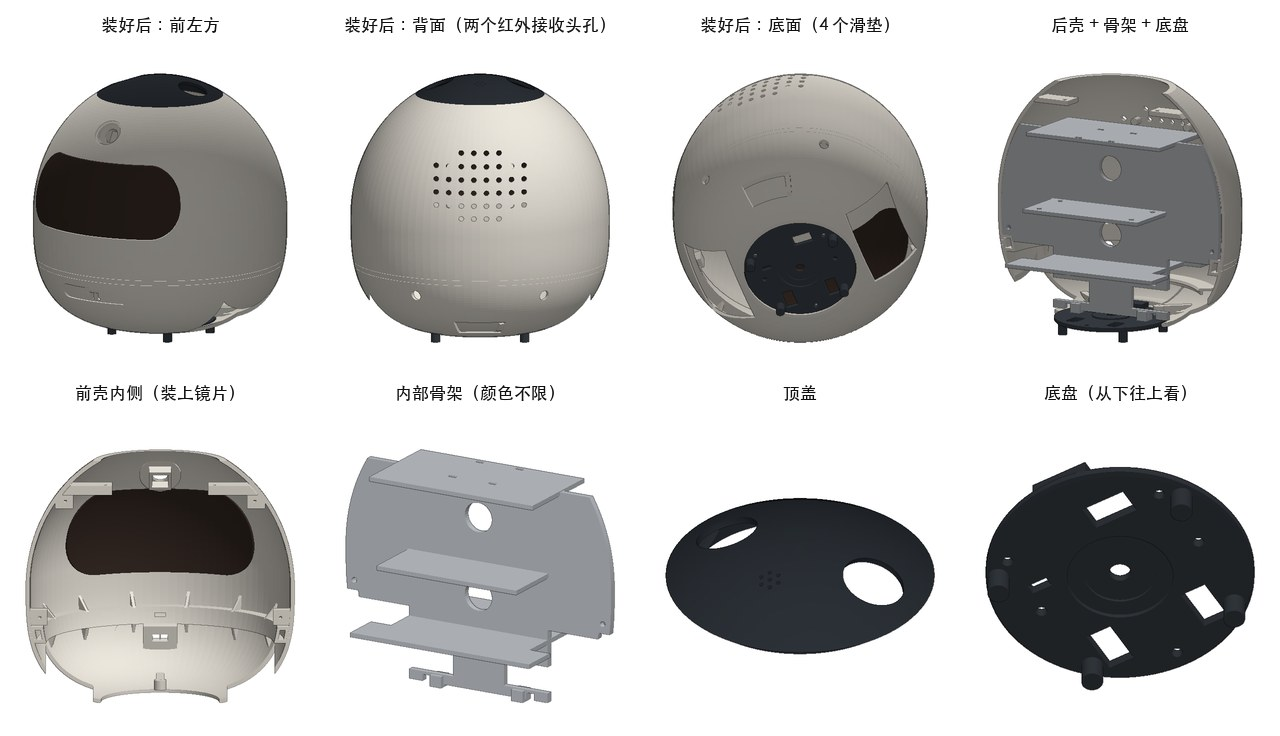
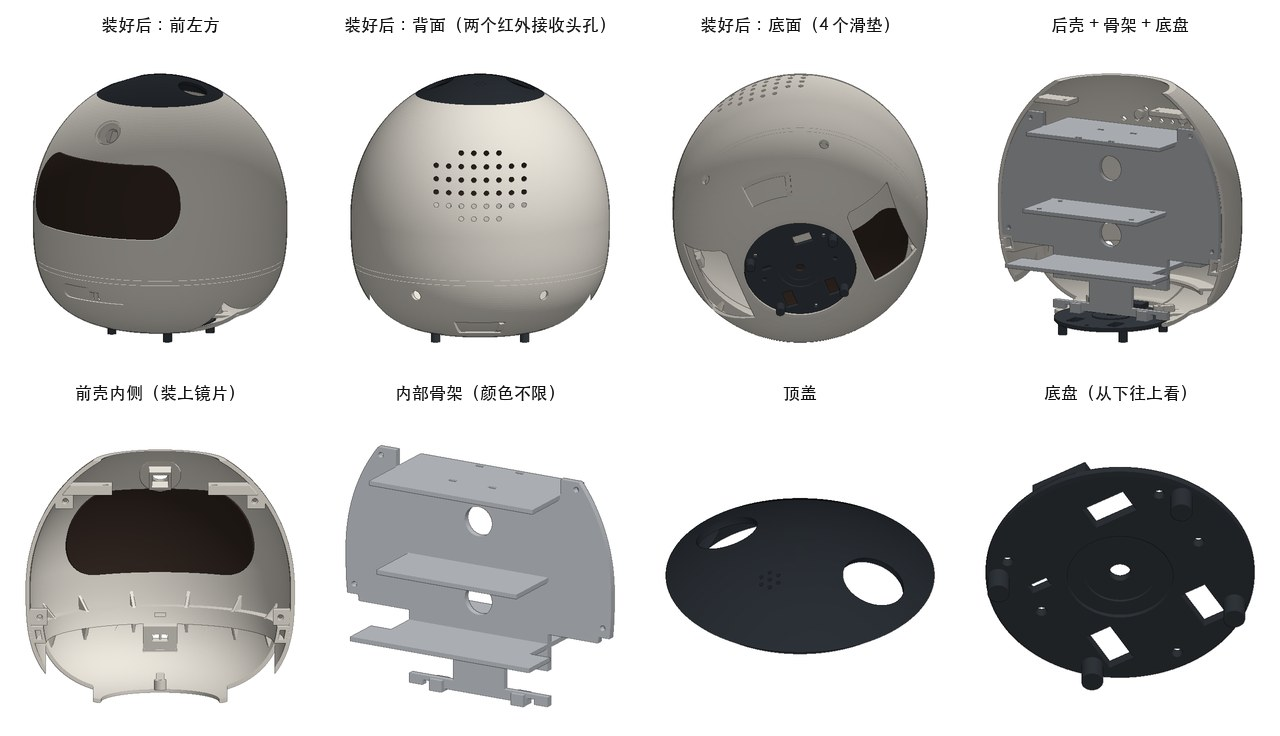
网站按 v1.9.5 核对更新：组装页零件表 05/14 尺寸和说明、屏幕位置（低 9.5 mm）、螺丝拧进铜螺母、USB 滑门装法说明，采购表加铜螺母和 AB 胶；重画表情窗、整机零件预览图，USB 滑门图去掉旧的第④格，图片缓存参数更新

diff --git a/build.html b/build.html
@@ -101,11 +101,11 @@ pre code { background: none; padding: 0; color: inherit; }
     <tr><th>文件</th><th>是什么</th><th class="n">外形尺寸（mm）</th><th>材料与摆放</th></tr>
     <tr><td><a href="cad/stl/shell_front.stl">shell_front.stl</a></td><td>前壳：腰部光带槽（离地 41.7–44.7，内侧一条封闭槽道把上下两半壳连起来）、表情窗、摄像头座（方孔 8.6 × 8.6 卡住镜头座、前端挡边定深度）和盖片沉台（Ø16.6 × 1.3，沿壳面法线，底下一圈 1 mm 托台）、ToF 窗口（凸台 + 光束通孔 + 嵌曲面长条的 1.5 mm 浅坑）、轮舱缺口、合缝螺丝耳（4 个，粘 M2 铜螺母）、底部正前方一根螺丝柱（粘 M2 铜螺母）、顶口合缝两边两块搁板（厚 5，从上面粘 M2 铜螺母，伸过合缝面 3.5）</td><td class="n">143 × 75 × 130</td><td>树脂或 PLA。合缝面朝下平放，要加支撑</td></tr>
     <tr><td><a href="cad/stl/lens.stl">lens.stl</a></td><td>表情窗的弧面镜片：和窗口同一个四角大圆弧形状，四周比窗口小 0.3；外表面比壳面高 0.5、外沿 R0.5 圆边；背面一圈翻边（比窗口大 3 mm、厚 1.2）粘在前壳内壁上</td><td class="n">100 × 29 × 47</td><td>透明树脂光固化，内外打磨抛光，内面喷透明茶色漆</td></tr>
-    <tr><td><a href="cad/stl/screen_shroud.stl">screen_shroud.stl</a></td><td>表情屏支架 + 遮光罩：后面是放 2.4 寸屏玻璃的框（前面一圈 1 mm 的唇，开口是显示区），中间是黑色漏斗，前口贴在前壳内壁上、压住镜片翻边</td><td class="n">105 × 32 × 55</td><td>黑色不透光的料（黑色树脂或黑色 PETG）。前口朝下放，要支撑</td></tr>
+    <tr><td><a href="cad/stl/screen_shroud.stl">screen_shroud.stl</a></td><td>表情屏支架 + 遮光罩：后面是放 2.4 寸屏玻璃的框（前面一圈 1 mm 的唇，开口是显示区），中间是黑色漏斗，前口贴在前壳内壁上、压住镜片翻边；v1.9.4 起屏幕框背面顶上那根横杆 2.2 mm、摄像头缺口四周补料 2 mm</td><td class="n">105 × 40 × 59</td><td>黑色不透光的料（黑色树脂或黑色 PETG）。前口朝下放，要支撑</td></tr>
     <tr><td><a href="cad/stl/shell_back.stl">shell_back.stl</a></td><td>后壳：腰部光带槽（离地 41.7–44.7，内侧一条封闭槽道把上下两半壳连起来）、出音孔、底部后缘的隐藏 USB-C 窗口和滑门导轨、左右两个回充红外接收头的孔（Ø5.6，离地 35）、轮舱缺口、顶口合缝两边两块搁板（厚 2.5，Ø2.6 过孔，叠在前壳搁板上面）、底部左后和右后两根螺丝柱（粘 M2 铜螺母）、出音孔后面 4 根放喇叭的小柱（v1.9.4 挪到出音孔中间）</td><td class="n">143 × 75 × 130</td><td>同上</td></tr>
     <tr><td><a href="cad/stl/top_cap.stl">top_cap.stl</a></td><td>顶盖：带向下的止口；两个耳朵球窝（圆孔），耳朵根部的球插在里面，四周 0.3 的缝，不再有长槽</td><td class="n">71 × 71 × 14</td><td>深色半透明料最好，没有就用黑色。开口朝上放</td></tr>
     <tr><td><a href="cad/stl/base_plate.stl">base_plate.stl</a></td><td>底盘：四个滑垫（分在左右两侧）、三个悬崖传感器窗、五个螺丝过孔（3 个拧外壳螺丝柱、2 个拧骨架底边；M2 × 6 从底下拧进外壳的螺丝柱）；底面中心的接口槽（锰钢垫片 + 四环触点板）；后缘一块垫块放 USB-C 转接板；底边倒角</td><td class="n">62 × 62 × 11</td><td>PETG。滑垫朝上放</td></tr>
-    <tr><td><a href="cad/stl/frame.stl">frame.stl</a></td><td>内部骨架：一块立板贴在前壳合缝螺丝耳后面（4 颗 M2 × 8 从立板后面穿过去拧进前壳；两侧边在腰部给光带槽道开了缺口），三层搁板：最下层前后各放一个 18650 单节电池盒，中间层前侧树莓派、后侧舵机板，最上层两只小舵机；电机缺口和扎带槽（缺口前后多留 4 mm，电机能挪）、舵机扎带槽；最下层搁板加宽到前后各 36，托住往外挪了的电池盒</td><td class="n">137 × 72 × 102</td><td>PETG。立着打，搁板下面要支撑</td></tr>
+    <tr><td><a href="cad/stl/frame.stl">frame.stl</a></td><td>内部骨架：一块立板贴在前壳合缝螺丝耳后面（4 颗 M2 × 8 从立板后面穿过去拧进前壳；两侧边在腰部给光带槽道开了缺口），三层搁板：最下层前后各放一个 18650 单节电池盒，中间层前侧树莓派、后侧舵机板，最上层两只小舵机；电机缺口和扎带槽（缺口前后多留 4 mm，电机能挪）、舵机扎带槽；最下层搁板加宽到前后各 36，托住往外挪了的电池盒；立板顶上两侧各伸出一块小耳朵，贴在前壳上面那对合缝螺丝耳后面（v1.9.5）</td><td class="n">137 × 72 × 109</td><td>PETG。立着打，搁板下面要支撑</td></tr>
     <tr><td><a href="cad/stl/ear.stl">ear.stl</a></td><td>耳朵（球窝式）：根部一个 R8.5 的球 + Ø13.8 胶囊，球下面伸出拨杆，末端 Ø1.4 孔穿钢丝连杆。左右是同一个文件，打印两个</td><td class="n">17 × 17 × 45</td><td>光固化韧性树脂（要和球窝配 0.3 的缝，TPU 精度不够），打磨后喷青绿</td></tr>
     <tr><td><a href="cad/stl/ear_cup.stl">ear_cup.stl</a></td><td>耳朵托碗：在顶盖里面托住耳朵的球（内壁离球 0.3），碗底一条缝让拨杆前后摆、也挡住耳朵不自己转；碗口贴顶盖内表面，用 B-7000 粘。打印两个</td><td class="n">20 × 21 × 14</td><td>韧性树脂。碗口朝下放，碗里面不留支撑</td></tr>
     <tr><td><a href="cad/stl/light_strip.stl">light_strip.stl</a></td><td>腰部导光条（T 形，半圈 180°）：外面那条卡进前后壳的光带槽、和壳面齐平；里面一圈翻边，后面贴 WS2812B 灯带。前后壳合起来之前，从合缝那头对准槽道转进去。前后各一段，同一个文件打印两个</td><td class="n">140 × 70 × 5</td><td>乳白半透明树脂（透光、但看不到里面的灯珠），不喷漆。翻边朝下放</td></tr>
@@ -148,11 +148,11 @@ pre code { background: none; padding: 0; color: inherit; }
     <li><b>挡块和防滑：</b>两块挡块在导轨槽里，挡的是轮子（橡胶圈），不用贴毛毡；后墙内腔底部放 150 g 左右的配重（钢片或几颗 M8 螺母，用胶固定）；底面 4 个 1 mm 深的浅坑里各贴一片 1 mm 硅胶垫（剪成 Ø16），贴好和底面齐平。不要垫高充电座：缓坡边缘必须比机器人滑垫离地的 1 mm 低，垫了脚垫倒车会顶住。</li>
     <li><b>摆放：</b>后墙贴着墙根放，前面留出 1 米以上的空地；不要放在地毯边上（缓坡边缘只有 0.6 mm，压在地毯上会翘）。</li>
   </ol>
-  <figure style="margin:18px 0 0"><img src="img/cad-usb.jpg?v=20261125" alt="隐藏 USB-C 的打印件怎么用：关着时窗口里是滑门；推开后露出 USB-C；从里面看上下两道导轨夹住滑门；滑门零件本身" style="display:block;width:100%;border-radius:12px;border:1px solid var(--line);background:#fff" loading="lazy"><figcaption style="font-size:13px;color:var(--mute,#777);margin-top:6px">隐藏 USB-C 是这样打印和组装的：后壳 shell_back.stl 底部后缘开窗口、内壁带上下导轨；滑门 usb_door.stl 单独打印，装壳前从导轨一端推进去。</figcaption></figure>
+  <figure style="margin:18px 0 0"><img src="img/cad-usb.jpg?v=20261125v195" alt="隐藏 USB-C 的打印件怎么用：关着时窗口里是滑门；推开后露出 USB-C；从里面看上下两道导轨夹住滑门" style="display:block;width:100%;border-radius:12px;border:1px solid var(--line);background:#fff" loading="lazy"><figcaption style="font-size:13px;color:var(--mute,#777);margin-top:6px">隐藏 USB-C 是这样打印和组装的：后壳 shell_back.stl 底部后缘开窗口、内壁带上下导轨；滑门 usb_door.stl 单独打印，装壳前从导轨一头整块转进去，再从窗口把拨片 usb_knob.stl 插进门上的小插槽粘住（装法见下面“USB滑门装法”那张图）。</figcaption></figure>
   <figure style="margin:18px 0 0"><img src="img/cad-charge.jpg?v=20261125w" alt="充电相关零件预览：底盘底面的垫片槽、触点板和四个滑垫，夹座的接口凸台和后侧 USB-C 仓，后壳的隐藏 USB-C 滑门和两个红外接收头孔，地面充电座" style="display:block;width:100%;border-radius:12px;border:1px solid var(--line);background:#fff" loading="lazy"></figure>
   <figure style="margin:18px 0 0"><img src="img/cad-dock.jpg?v=20261125w" alt="地面充电座细节：正面的三个信标孔、两块挡块和漏斗导轨；剖开看套筒、浮动接口台和底盖环；侧面剖开看机器人停到位，接口台被磁铁吸起贴住底盘" style="display:block;width:100%;border-radius:12px;border:1px solid var(--line);background:#fff" loading="lazy"><figcaption style="font-size:13px;color:var(--mute);margin-top:6px">充电座三个打印件：底座、浮动接口台、底盖环。右边是从中间剖开的侧面：轮子顺着缓坡开上来，挡块定住前后，接口台被磁铁吸起来贴住底盘。</figcaption></figure>
   <figure style="margin:18px 0 0"><img src="img/cad-clip.jpg?v=20261125" alt="夹座零件预览：托盘俯视、接口凸台特写（6 个磁铁坑和 4 个弹针孔）、装上撑脚的侧面、后侧 USB-C 小板仓" style="display:block;width:100%;border-radius:12px;border:1px solid var(--line);background:#fff" loading="lazy"></figure>
-  <figure style="margin:18px 0 0"><img src="img/cad-preview.jpg?v=20261125v19" alt="生成的零件预览：装配后的外壳正面、背面、底面，以及前壳内侧、骨架、顶盖、底盘" style="display:block;width:100%;border-radius:12px;border:1px solid var(--line);background:#fff" loading="lazy"></figure>
+  <figure style="margin:18px 0 0"><img src="img/cad-preview.jpg?v=20261125v195" alt="生成的零件预览：装配后的外壳正面、背面、底面，以及前壳内侧、骨架、顶盖、底盘" style="display:block;width:100%;border-radius:12px;border:1px solid var(--line);background:#fff" loading="lazy"></figure>
   <div class="note"><b>这些文件的可靠程度不一样：</b><br>
   · <b>外壳、顶盖、底盘</b>是按轮廓公式直接算出来的，壁厚垂直于壳面处处 2 mm（底口是一圈 2 mm 宽的实心平底），尺寸我用程序核对过（骨架离内壁最近处 1 mm，底盘和外壳之间至少 0.3 mm），可以直接打印。<br>
   · <b>整机装配核对过：</b>把所有打印件按装好的位置放在一起，再把买来的零件按清单里写的尺寸上限放进去（电池盒、树莓派、舵机、电机、各个小模块、喇叭、摄像头、悬崖传感器），用程序逐个算过互相不碰；耳朵在 ±20° 全程摆动，不碰顶盖、托碗、外壳、骨架和舵机，和顶盖之间最窄的缝 0.2 mm（摆到头时），平时 0.3 mm。v1.9 又按装配顺序把每一步的移动路径和螺丝刀能不能够到都模拟了一遍（底盘先拧在骨架上 → 合前壳 → 拧前壳合缝螺丝 → 合后壳 → 拧底盘和顶口螺丝 → 盖顶盖），改掉了上一版装不上的四处：导光条推不进去、合缝螺丝拧不到、滑门推不进导轨、带托碗的顶盖放不进顶口。<br>
@@ -161,8 +161,8 @@ pre code { background: none; padding: 0; color: inherit; }
   · <b>地面充电座按“机器人自己倒车开上来”设计，用程序核对过：</b>机器人沿中线倒车进来，不管机身平着、往前点头还是往后仰（压在前面或后面一对滑垫上），左右偏 2 mm 以内，外壳、底盘、轮子都不碰导轨、套筒和接口台；只有滑垫在底板上滑。接口台平时落在离底板 3.6 mm，弹针头 4.6 mm，比机身后仰时外壳最低处（4.7 mm）还低。到位时<b>两个轮子顶住导轨里的挡块</b>（v1.3 改：原来是外壳后背碰挡块，机身在滑垫上前后点头 ±4° 时停的位置会差 ±3 mm，地线弹针就落不到触点环上）。轮子绕轮轴转，最后面那一点永远在轮轴正后方，所以不管机身点不点头都停在同一个位置（模拟：后仰 0°、2°、4.2° 都停在接口台中心 0.05 mm 以内）；斜着倒进来时一个轮子先顶到，另一个继续倒直。挡块高 10.5（比轮轴低，避开轮舱后面的外壳），要爬上去每个轮子得推约 3.2 N，N20 堵转只有约 2.6 N。接口台被磁铁吸起 3.3 mm 贴住底盘。缓坡、导轨和磁铁吸力还要实物试。<br>
   · <b>滑门和导轨是起步版。</b>间隙按 0.3 mm 留的（门和壳壁、门和导轨内唇，按垂直于壁面算），用程序核对过关上、推开到底都不碰壳体和底盘；打印精度差的话把门的边缘磨一下。<br>
   · <b>配合间隙统一每边 0.3 mm：</b>滑门、接口台、顶盖、底盘、骨架，以及买来的零件（磁铁、弹针、垫片、触点板、M2 / M3 螺丝、红外头、盖片）放进打印件的孔和槽，都按 0.3 mm 留，用程序逐处核对过。这是打印商家通常要求的下限；切片时不要再加孔补偿或 XY 补偿。想改就改 <code>make_shell.py</code> 开头的 <code>FIT</code>。<br>
-  · <b>螺丝和铜螺母：</b>前壳和骨架用 4 颗 <b>M2 × 8</b>，从骨架立板后面穿过去拧进前壳的合缝螺丝耳（拧进约 5 mm，装后壳之前拧，后面是敞开的）；后壳靠底盘的 2 颗螺丝和顶口的 2 颗 <b>M2 × 8</b> 固定：顶口合缝两边各有一对搁板，后壳的叠在前壳的上面，螺丝从顶口竖着拧下去（装顶盖之前，螺丝离中心 29，顶口内半径 31.5，螺丝刀直着伸得进去）；底盘用 5 颗 M2 × 6：3 颗从底下穿过底盘拧进外壳底部的三根螺丝柱，2 颗拧进骨架底边的两个小凸台（x = ±21，v1.6.1 加的：这样腰部光带槽下面那一圈外壳不光靠槽道挂着，摔的时候力能分给骨架）。前壳 7 个、后壳 2 个、骨架底边 2 个孔（Ø3.3 × 3.5 深）<b>用 AB 胶粘 M2 × 3 × 3.2 滚花铜螺母</b>，和孔口齐平（v1.9.4 起；原来在树脂上直接攻 M2 牙，拧几次就花；树脂件不能用烙铁热熔压螺母，会烫裂；位置见下图红圈），其余孔都是过孔：夹座铰链用 M3 × 65 加防松螺母和两个垫片（要能转，不放螺母），树莓派用 M2.5 加螺母。三根螺丝柱的位置是用程序在一圈里扫出来的，避开了轮子、电机、骨架、滑门推开的范围、悬崖传感器和滑垫。<br>
-  <img src="img/cad-insert.jpg?v=20261125v194" alt="铜螺母位置：前壳 7 处、后壳 2 处、骨架 2 处，底盘 5 个过孔" style="width:100%;margin:6px 0 4px;border-radius:8px"><br>
+  · <b>螺丝和铜螺母：</b>前壳和骨架用 4 颗 <b>M2 × 8</b>，从骨架立板后面穿过去拧进前壳合缝螺丝耳里的铜螺母（拧进约 3 mm，装后壳之前拧，后面是敞开的）；后壳靠底盘的 2 颗螺丝和顶口的 2 颗 <b>M2 × 8</b> 固定：顶口合缝两边各有一对搁板，后壳的叠在前壳的上面，螺丝从顶口竖着拧下去（装顶盖之前，螺丝离中心 29，顶口内半径 31.5，螺丝刀直着伸得进去）；底盘用 5 颗 M2 × 6：3 颗从底下穿过底盘拧进外壳底部的三根螺丝柱，2 颗拧进骨架底边的两个小凸台（x = ±21，v1.6.1 加的：这样腰部光带槽下面那一圈外壳不光靠槽道挂着，摔的时候力能分给骨架）。前壳 7 个、后壳 2 个、骨架底边 2 个孔（Ø3.3 × 3.5 深）<b>用 AB 胶粘 M2 × 3 × 3.2 滚花铜螺母</b>，和孔口齐平（v1.9.4 起；原来在树脂上直接攻 M2 牙，拧几次就花；树脂件不能用烙铁热熔压螺母，会烫裂；位置见下图红圈），其余孔都是过孔：夹座铰链用 M3 × 65 加防松螺母和两个垫片（要能转，不放螺母），树莓派用 M2.5 加螺母。三根螺丝柱的位置是用程序在一圈里扫出来的，避开了轮子、电机、骨架、滑门推开的范围、悬崖传感器和滑垫。<br>
+  <img src="img/cad-insert.jpg?v=20261125v195" alt="铜螺母位置：前壳 7 处、后壳 2 处、骨架 2 处，底盘 5 个过孔" style="width:100%;margin:6px 0 4px;border-radius:8px"><br>
   · <b>想改比例或尺寸</b>：装好 Python 后运行 <code>pip install manifold3d numpy trimesh</code>，再 <code>python make_shell.py 1.0</code> 就能生成 1:1 的版本；所有尺寸都在脚本开头。</div>
 
   <h3>外壳轮廓数据</h3>
@@ -183,8 +183,8 @@ pre code { background: none; padding: 0; color: inherit; }
     <li><b>镜片 <code>lens.stl</code>：</b>透明树脂光固化。刚打出来是半透明发雾的，要用砂纸 400 → 800 → 1500 → 2000 目磨平层纹，再抛光或喷透明光油，才会透亮（跟商家说“全透明抛光”）。然后<b>只在内面</b>喷透明茶色（烟灰色）漆，透光压到 30% 左右：熄屏时一片黑，亮屏时只透出眼睛；外面保持抛光的亮面。不要在内面贴茶色膜：镜片内面是两个方向都弯的曲面，膜贴上去会起褶，只用喷漆。</li>
     <li><b>贴合和缝隙：</b>镜片从里往外塞进窗口，背面翻边顶住前壳内壁就推不出去了，所以镜片露出来的高度由翻边定住，不用手去对。镜片外表面比壳面<b>高 0.5 mm，外沿是 R0.5 的圆边</b>（3D 模型里是高 0.7）：摸过去是一道圆滑的小台阶，不会摸到沟；打印 ±0.1–0.2 mm 的误差也藏在这道台阶里。四周和窗口留 0.3 mm 缝，装好是一圈均匀的细线。两个零件拼在一起不可能完全没缝，量产的手机玻璃也有 0.1–0.2 mm；塞不进去就用砂纸修镜片的边，不要修壳。</li>
     <li><b>摄像头怎么装（v1.3）：</b>前额是外凸的弧面。盖片沉台沿<b>壳面法线</b>铣（那里壳面朝上仰 42°），Ø16 × 1 的平盖片放进去，坐在底下一圈 1 mm 宽的托台上，四周和壳面的缝只有 0–0.8 mm，侧面看是贴着弧面的一个小圆窗；盖片用一点点 UV 胶或 B-7000 点在边上。摄像头本身朝前上方仰 29°，在盖片后面斜着看出去：前壳里面有一个摄像头座，<b>模组的 8 × 8 方形镜头座从里面插进方孔</b>，顶到前端挡边就到位，光轴自动对准，镜头筒从挡边中间的孔伸出去、离盖片 1.2 mm 以上；然后在板子四边点 B-7000 粘住（等胶干之前别碰）。用程序核对过：镜头筒伸出方块 2 mm 以上时，120° 广角的整个 4:3 画面都不被挡（伸出 1 mm 时上边两个角挡掉约 3%），镜头座高 6–10 都放得下。</li>
-    <li><b>屏幕支架 + 遮光罩 <code>screen_shroud.stl</code>：</b>外壳越往上越收，平屏的四个角会先碰到壳壁，所以屏幕上沿往后仰 13°、比表情窗中心低 5 mm，玻璃中心在镜片背面后面约 22 mm。这段距离由黑色漏斗包住：后口正好是显示区，前口是整个表情窗。眼睛看上去在镜片后面一点点，侧面看也不漏光。屏幕尺寸按常见 2.4 寸 8 针模块写的（玻璃 60.3 × 42.7、PCB 77 × 43、排针在右边）；买到的不一样，量一下改 <code>make_shell.py</code> 里 <code>SCR_</code> 开头的几个数，重新生成。想让屏幕再靠前，可以换不带 PCB 的 2.4 寸裸屏（FPC 排线 + 转接板），四个角小一圈，能往前挪约 5 mm。遮光罩上沿中间切了一个缺口，给摄像头的板子（25 × 24，镜头座高 6–10 都放得下）让位；装好后如果从镜片上沿能看到摄像头板，从后面贴一小块黑胶布挡住。</li>
-    <li><b>装的顺序：</b>① 前壳正面朝下垫在软布上，镜片从里面放进窗口，翻边上薄薄涂一圈 B-7000（不要用 UV 胶：茶色镜片和不透光的壳体照不透紫外，胶不固化），用泡棉块从里面压住；② 屏幕玻璃朝前放进遮光罩的框里，PCB 背面用两条胶带或几点热熔胶固定；③ 遮光罩前口一圈涂 B-7000，扣到镜片后面：里圈压在镜片翻边上，外圈贴在壳内壁上。一圈都要涂满，不然屏幕边上会漏光；④ 压 24 小时再接线。正面溢出来的胶用酒精棉擦掉。<br><img src="img/cad-face.jpg?v=20261125f" alt="表情窗：装好后的正面、从中间剖开的侧面、镜片上沿特写、遮光罩和屏幕" style="width:100%;margin:8px 0 2px;border-radius:8px;border:1px solid var(--line);background:#fff" loading="lazy"><br><img src="img/cad-lens.jpg?v=20261125c" alt="表情窗镜片：正面、背面翻边、装在前壳里" style="width:100%;margin:8px 0 2px;border-radius:8px;border:1px solid var(--line);background:#fff" loading="lazy"></li>
+    <li><b>屏幕支架 + 遮光罩 <code>screen_shroud.stl</code>：</b>外壳越往上越收，平屏的四个角会先碰到壳壁，所以屏幕上沿往后仰 13°、比表情窗中心低 9.5 mm（v1.9.4 从 5 改成 9.5：遮光罩背面顶上夹在摄像头板和屏幕电路板之间的那根横杆原来只有 0.3–0.6 mm，挪下去以后是 2.2 mm；固件 <code>face.py</code> 里整张脸往上画 29 像素，眼睛在窗口里的位置不变），玻璃中心在镜片背面后面约 22 mm。这段距离由黑色漏斗包住：后口正好是显示区，前口是整个表情窗。眼睛看上去在镜片后面一点点，侧面看也不漏光。屏幕尺寸按常见 2.4 寸 8 针模块写的（玻璃 60.3 × 42.7、PCB 77 × 43、排针在右边）；买到的不一样，量一下改 <code>make_shell.py</code> 里 <code>SCR_</code> 开头的几个数，重新生成。想让屏幕再靠前，可以换不带 PCB 的 2.4 寸裸屏（FPC 排线 + 转接板），四个角小一圈，能往前挪约 5 mm。遮光罩上沿中间切了一个缺口，给摄像头的板子（25 × 24，镜头座高 6–10 都放得下）让位；装好后如果从镜片上沿能看到摄像头板，从后面贴一小块黑胶布挡住。</li>
+    <li><b>装的顺序：</b>① 前壳正面朝下垫在软布上，镜片从里面放进窗口，翻边上薄薄涂一圈 B-7000（不要用 UV 胶：茶色镜片和不透光的壳体照不透紫外，胶不固化），用泡棉块从里面压住；② 屏幕玻璃朝前放进遮光罩的框里，PCB 背面用两条胶带或几点热熔胶固定；③ 遮光罩前口一圈涂 B-7000，扣到镜片后面：里圈压在镜片翻边上，外圈贴在壳内壁上。一圈都要涂满，不然屏幕边上会漏光；④ 压 24 小时再接线。正面溢出来的胶用酒精棉擦掉。<br><img src="img/cad-face.jpg?v=20261125v195" alt="表情窗：装好后的正面、从中间剖开的侧面、镜片上沿特写、遮光罩和屏幕" style="width:100%;margin:8px 0 2px;border-radius:8px;border:1px solid var(--line);background:#fff" loading="lazy"><br><img src="img/cad-lens.jpg?v=20261125c" alt="表情窗镜片：正面、背面翻边、装在前壳里" style="width:100%;margin:8px 0 2px;border-radius:8px;border:1px solid var(--line);background:#fff" loading="lazy"></li>
   </ul>
 </div></section>
 
@@ -360,8 +360,8 @@ const PARTS = [
   ['摄像头盖片', 'Ø16 × 1 mm 透明亚克力圆片（激光切）', 1, 3, '粘进前额沉台（沿壳面法线），贴着弧面'],
   ['圆片磁铁', '钕铁硼 Ø6 × 3', 12, 0.3, '夹座和充电座各 6 颗'],
   ['夹座五金', 'M3 × 65 螺丝 + M3 防松螺母 + M3 垫片 ×2、小橡皮筋 ×2、1 mm 硅胶垫', 1, 8, '夹座的铰链和防滑'],
-  ['螺丝螺母', 'M2 × 8 ×6（4 颗前壳合缝、2 颗顶口搁板）、M2 × 6 ×5（底盘：3 颗拧外壳、2 颗拧骨架底边）、M2.5 × 8 + M2.5 螺母 ×4（树莓派），圆头内六角', 1, 6, '前壳、外壳螺丝柱、骨架底边的 11 个孔粘 M2 铜螺母（M2 × 3 × 3.2 滚花铜螺母 11 个）'],
-  ['胶水与扎带', '502 胶、UV 胶（带紫外灯）、热熔胶棒、双面胶、2.5 mm 宽小扎带', 1, 15, '粘磁铁、垫片、盖片、小模块；电机和舵机用扎带绑在骨架上'],
+  ['螺丝螺母', 'M2 铜螺母（M2 × 3 × 3.2 滚花）×11、M2 × 8 ×6（4 颗前壳合缝、2 颗顶口搁板）、M2 × 6 ×5（底盘：3 颗拧外壳、2 颗拧骨架底边）、M2.5 × 8 + M2.5 螺母 ×4（树莓派），圆头内六角', 1, 12, '铜螺母 50 个一包约 6 元；前壳、外壳螺丝柱、骨架底边的 11 个孔粘 M2 铜螺母（M2 × 3 × 3.2 滚花铜螺母 11 个）'],
+  ['胶水与扎带', '502 胶、UV 胶（带紫外灯）、环氧 AB 胶、B-7000、热熔胶棒、双面胶、2.5 mm 宽小扎带', 1, 25, '粘磁铁、垫片、盖片、小模块；AB 胶粘 11 个铜螺母（v1.9.4 起），B-7000 粘镜片和遮光罩；电机和舵机用扎带绑在骨架上'],
   ['夹座打印', '托盘和撑脚（代打印）', 1, 45, '夹在显示器上'],
   ['充电座打印', '底座、浮动接口台、底盖环（代打印）', 1, 45, '地面充电'],
 ];
